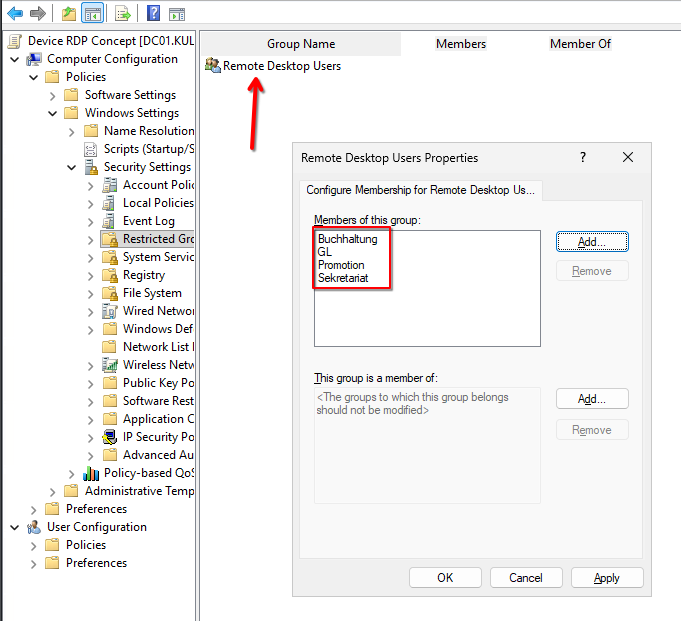
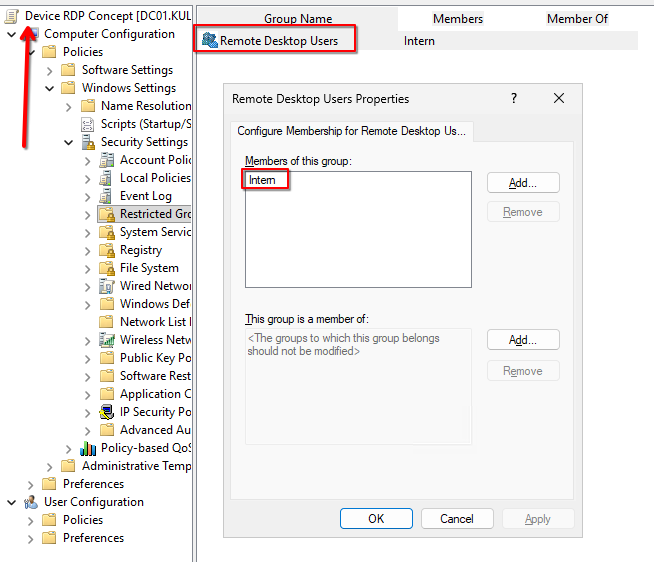
push local changes from Lenovo

diff --git a/03_Einrichtung/dc01-2.md b/03_Einrichtung/dc01-2.md
@@ -1,4 +1,4 @@
-### Erstellung der Gruppen
+### User und Gruppen
 
 Ich erstelle die Gruppen anhand der Planung. 
 
@@ -10,10 +10,27 @@ Im nächsten Punkt erstelle ich die User und weise sie den Gruppen zu.
 
 <img width=60% height=50% alt="UserErstellung.png" src="https://github.com/dariokulici/m159/raw/main/03_Einrichtung/media/UserErstellung.png">
 
+<br>
+
 ### RDP Konzept
 
 Damit man sich mit Domain Usern per RDP verbinden kann muss eine Device Policy festlegen, dass diese User (bzw. die Gruppen) in die Gruppe "Remote Desktop Users" geschrieben werden. 
 
 <img width=60% height=50% alt="RestrictedGroupModify.png" src="media/RestrictedGroupModify.png">
 
+<br>
+
+Anbei das Bild wo ich mich mit dem Benutzer "m.meer" erfolgreich verbinde. 
+
+<img width=60% height=50% alt="RDPConceptSucessfull.png" src="media/RDPConceptSucessfull.png">
+
+<br>
+
+### File Shares
+
+Ich habe die Ordner Struktur anhand der Aufgabe erstellt und die Berechtigungen eingestellt. Hier bin ich mit dem Benutzer `g.gabel` eingeloggt und habe `Abteilungen` als Network Drive hinzugefügt. Zusätzlich ist `Access based enumeration` aktiv, sodass der Benutzer nur die Ordner sieht, die er sehen darf also in diesem Beispiel `GL`. 
+
+<img width=60% height=50% alt="ShareAbteilungenView.png" src="media/ShareAbteilungenView.png">
+
+<br>
 
